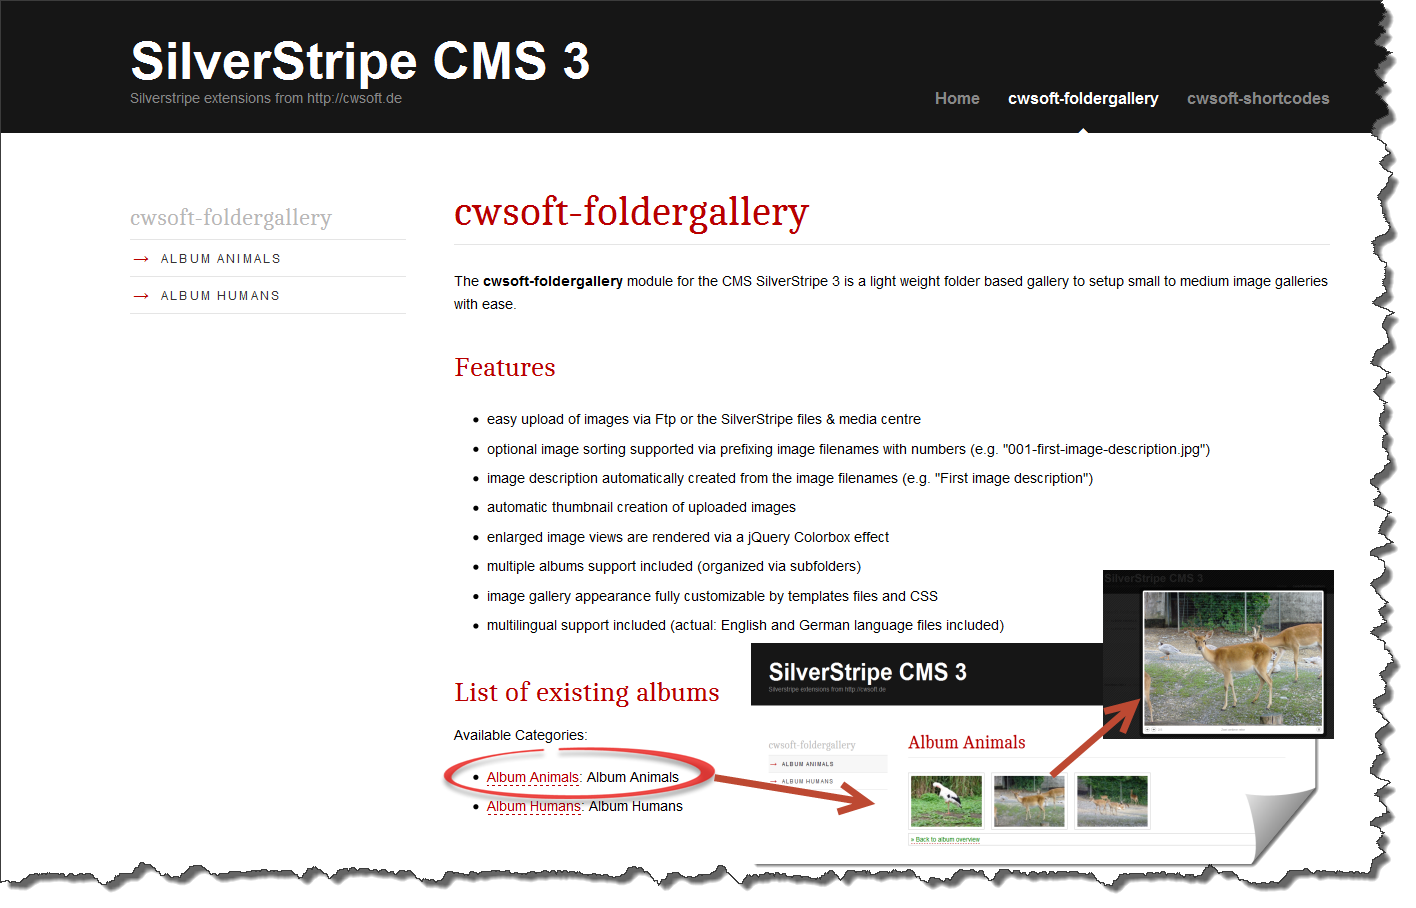
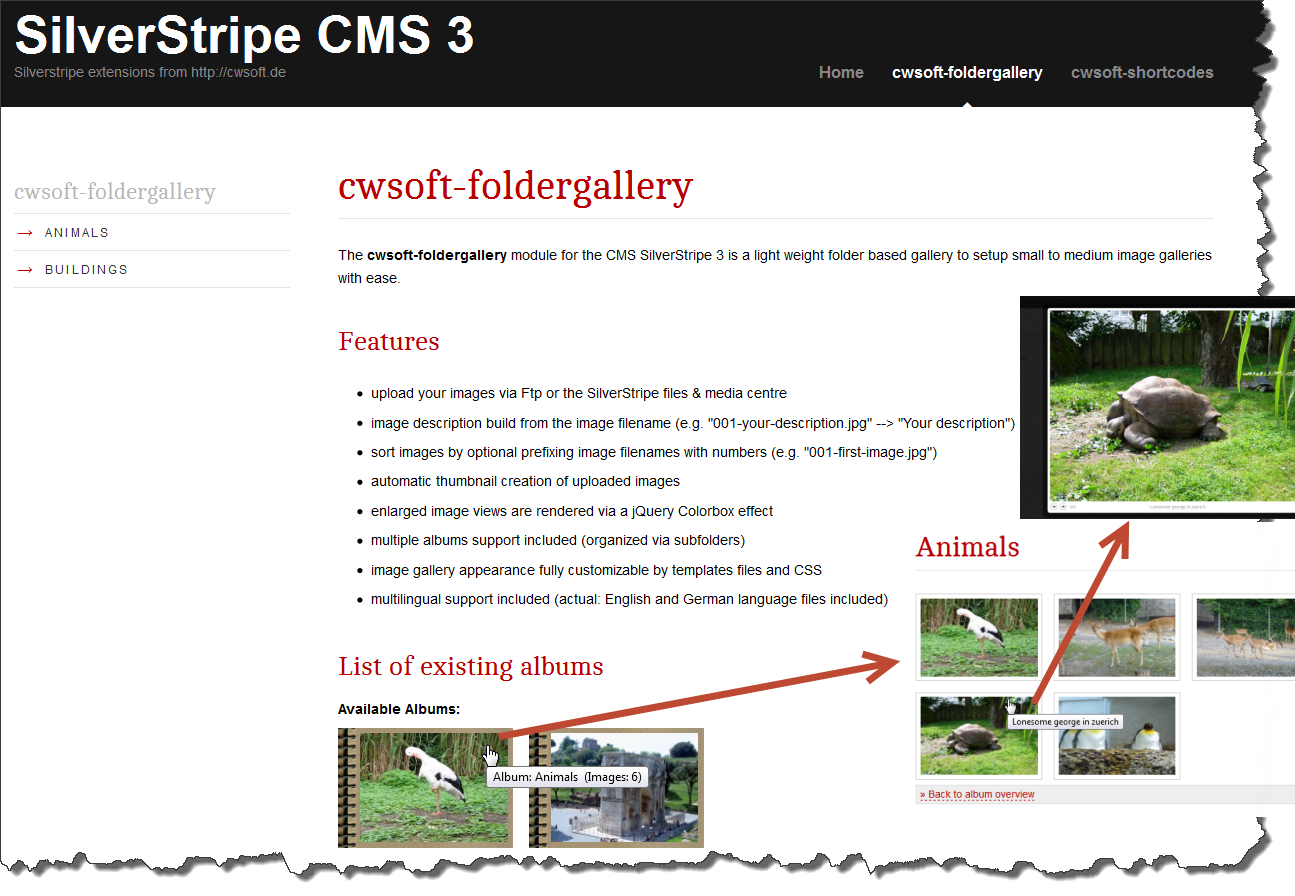
Issued version 2.1.0 for SilverStripe 3.x
- refined album cover image style
- added number of album images to album cover image title tag (hover)
- updated screenshot and README

diff --git a/cwsoft-foldergallery/css/cwsFolderGallery.css b/cwsoft-foldergallery/css/cwsFolderGallery.css
@@ -12,26 +12,27 @@
  * @license     http://www.gnu.org/licenses/gpl-3.0.html
 */
 
-#cwsoft-foldergallery .album-view a {
+#cwsoft-foldergallery .album a {
 	display: block;
 	float: left;
-	width: 160px;
+	width: 150px;
 	height: 100px;
-	background: url(../images/album-background.png) repeat-y scroll 0 0 #000;
-	border: 1px solid #ccc;
-	margin: 7px 15px 7px 0;
+	background: #000 url(../images/album-background.png) repeat-y 0 ;
+	margin: 10px 15px 10px 0;
 	padding: 5px;
+	border: 0;
+	text-decoration: none;
 }
 
-#cwsoft-foldergallery .album-view a img {
+#cwsoft-foldergallery .album a img {
 	border: 0;
-	padding: 0 0 0 2em;
+	padding: 0 0 0 15px;
 	margin: 0;
 	width: 135px;
 	height: 100px;
 }
 
-#cwsoft-foldergallery .image-view a {
+#cwsoft-foldergallery .photo a {
 	display: block;
 	width: 150px;
 	height: 100px;
@@ -42,7 +43,7 @@
 	float: left;
 }
 
-#cwsoft-foldergallery .image-view a img {
+#cwsoft-foldergallery .photo a img {
 	border: 0;
 	padding: 0;
 	margin: 0;

diff --git a/cwsoft-foldergallery/code/cwsFolderGalleryPage.php b/cwsoft-foldergallery/code/cwsFolderGalleryPage.php
@@ -95,7 +95,11 @@ class cwsFolderGalleryPage_Controller extends Page_Controller {
 			$albumImages = Image::get()->filter('ParentID', $pageData['AlbumFolderID']);
 			
 			// add extra information to data array
-			$data[$index]['AlbumNumberImages'] = $albumImages->Count();
+			$data[$index]['AlbumNumberImages'] = _t(
+				'cwsFolderGalleryPage.NUMBER_OF_IMAGES',
+				' (Images: {images})', 
+				array('images' => $albumImages->Count())
+			);
 			$data[$index]['AlbumCoverImage'] = ($albumImages) ? $albumImages->First() : false;
 			$data[$index]['AlbumURL'] = $pages[$index]->RelativeLink();			
 			

diff --git a/cwsoft-foldergallery/_config.php b/cwsoft-foldergallery/_config.php
@@ -8,7 +8,7 @@
  * 
  * @platform    CMS SilverStripe 3
  * @package     cwsoft-foldergallery
- * @version     2.0.0
+ * @version     2.1.0
  * @author      cwsoft (http://cwsoft.de)
  * @copyright   cwsoft
  * @license     http://www.gnu.org/licenses/gpl-3.0.html

diff --git a/README.md b/README.md
@@ -2,9 +2,9 @@
 The `cwsoft-foldergallery` module is a light weight folder based gallery for the [CMS SilverStripe 3](http://silverstripe.org) which enables to setup small to medium image galleries with ease.
 
 ## Features
-- easy upload of images via Ftp or the SilverStripe files & media centre
-- optional image sorting supported via prefixing image filenames with numbers (e.g. "001-first-image-description.jpg")
-- image description automatically created from the image filenames (e.g. "First image description")
+- upload your images via Ftp or the SilverStripe files & media centre
+- image description build from the image filename (e.g. "001-your-description.jpg" --> "Your description")
+- sort images by optional prefixing image filenames with numbers (e.g. "001-first-image.jpg")
 - automatic thumbnail creation of uploaded images
 - enlarged image views are rendered via a jQuery Colorbox effect
 - multiple albums support included (organized via subfolders)
@@ -45,14 +45,14 @@ The required steps to create a single album page with the ***cwsoft-foldergaller
 9. save and publish the gallery page
 
 ### Using albums
-The ***cwsoft-foldergallery*** supports multiple albums. An album is basically a child page of a page of type `Folder Gallery`. The parent page will automatically create a list with the links to the individual albums available (child pages). 
+The ***cwsoft-foldergallery*** supports multiple albums. An album is basically a child page of type `Folder Gallery` added to a parent of the same type. The parent page will automatically create thumbnail images for all albums (subpages) by extracting the first album image as cover image. Clicking on a album image will open the album site (subpage) providing a view of all album images contained in it.
 
 To use the multiple albums features, create a page tree structure as follows:
 
 	SilverStripe page tree:
-	- Gallery (type: Foldergallery)
-	  + Album 2011 (type: Foldergallery)
-	  + Album 2012 (type: Foldergallery)
+	- Album overview (type: Foldergallery)
+	  + Animals (type: Foldergallery)
+	  + Buildings (type: Foldergallery)
 
 A collage of the frontend view of cwsoft-foldergallery is shown below:
 
